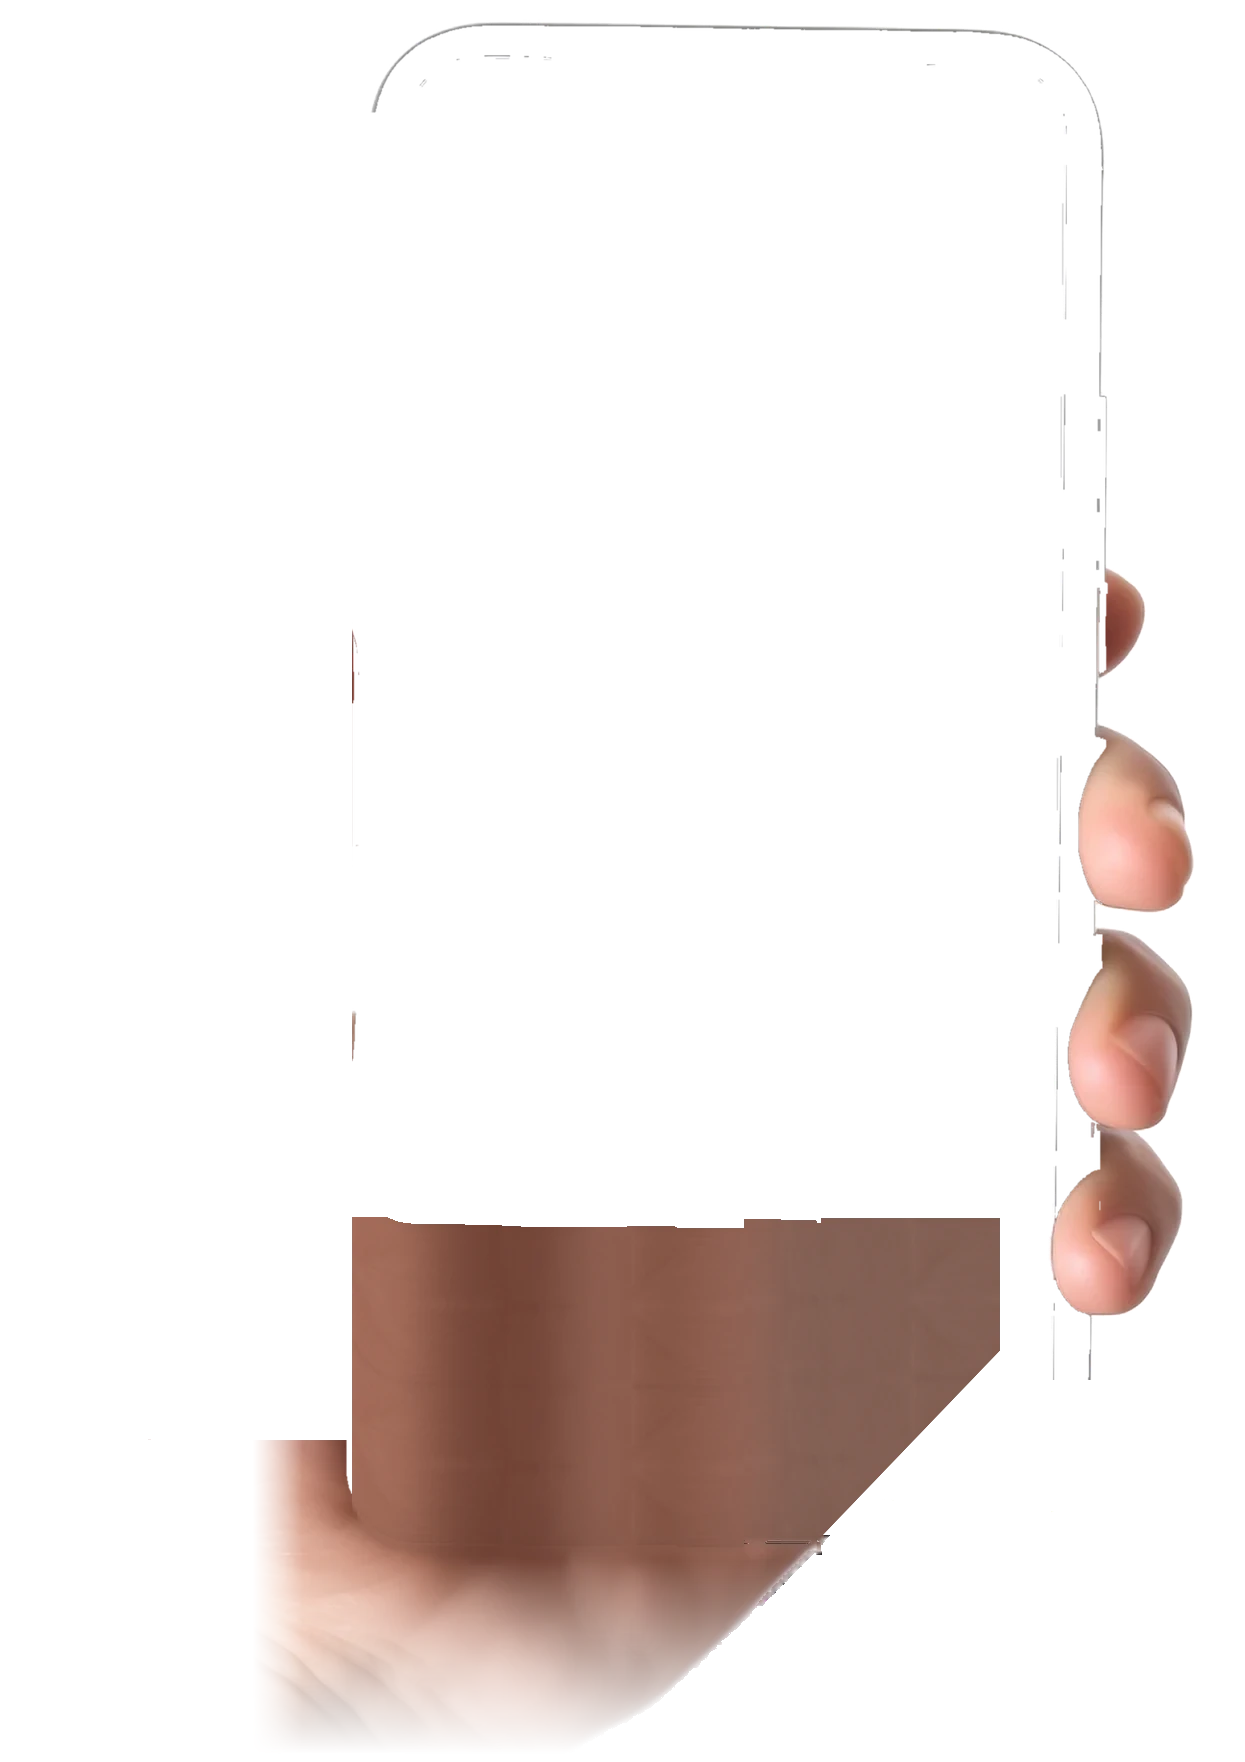
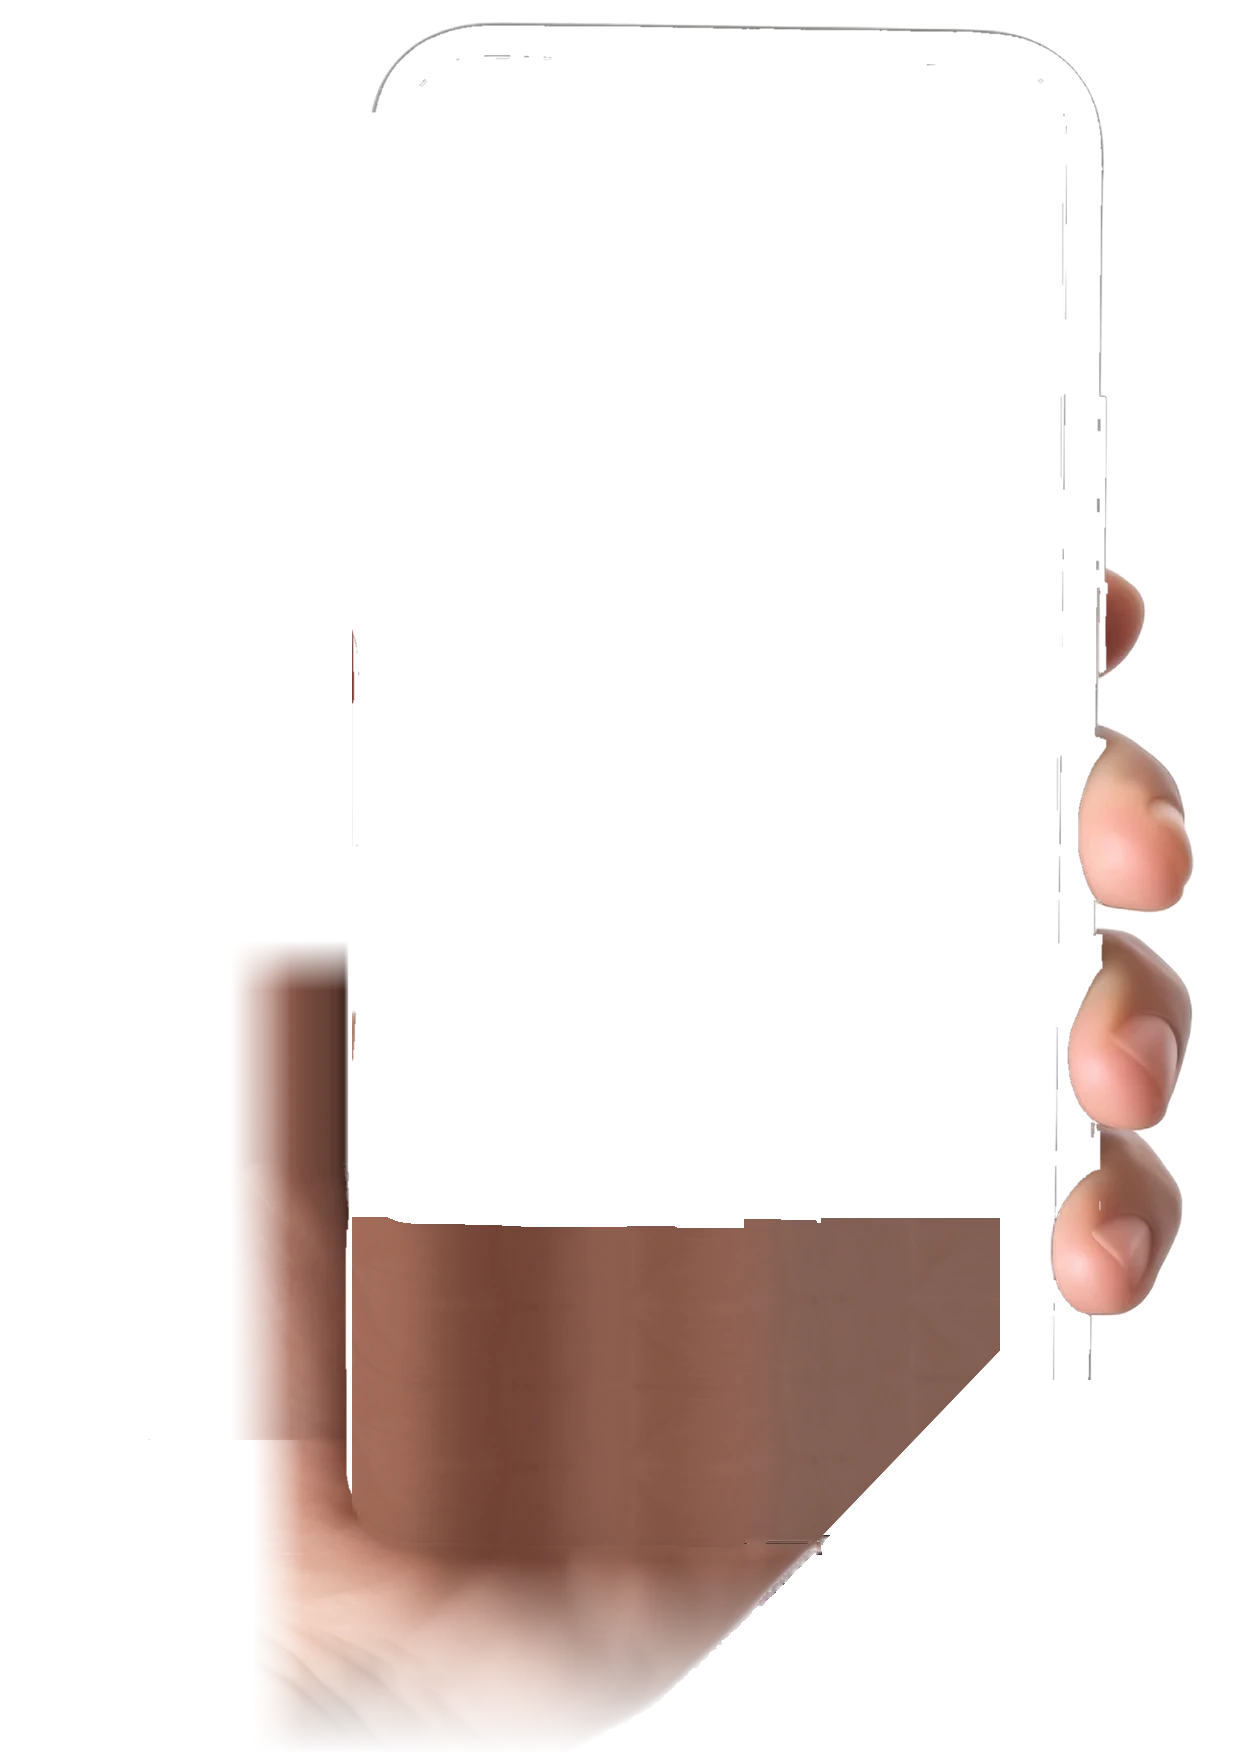
Palm skin behind the base of the thumb, so no hole shows when the thumb swings off the phone's edge

Changed region(s): [[0.1831, 0.5306, 0.3052, 0.8428]]

diff --git a/index.html b/index.html
@@ -60,7 +60,7 @@
       <video src="video/request-flow.mp4?v=6" poster="video/request-flow.jpg?v=5" width="604" height="1312" autoplay muted playsinline preload="auto" aria-label="A short video of someone holding an iPhone and requesting an office in OfficeSwap with their thumb: they tap Request an Office, pick Tuesday and Wednesday, and get an office for both days."></video>
       <img class="hold-phone" src="images/hand/phone.webp?v=5" alt="" width="1245" height="1762">
       <img class="hold-still" src="images/hand/handhold.webp?v=14" alt="" width="1245" height="1762">
-      <canvas class="hold-hand" aria-hidden="true" data-thumb="images/hand/thumb.webp?v=14" data-palm="images/hand/palm.webp?v=15"></canvas>
+      <canvas class="hold-hand" aria-hidden="true" data-thumb="images/hand/thumb.webp?v=14" data-palm="images/hand/palm.webp?v=16"></canvas>
     </div>
     <button type="button" class="replay" hidden aria-label="Play the video again"><svg viewBox="0 0 24 24" fill="none" stroke="currentColor" stroke-width="2" stroke-linecap="round" stroke-linejoin="round" aria-hidden="true"><path d="M3.5 12a8.5 8.5 0 1 0 2.6-6.1"/><path d="M3.5 4v4.5H8"/></svg></button>
   </div>
